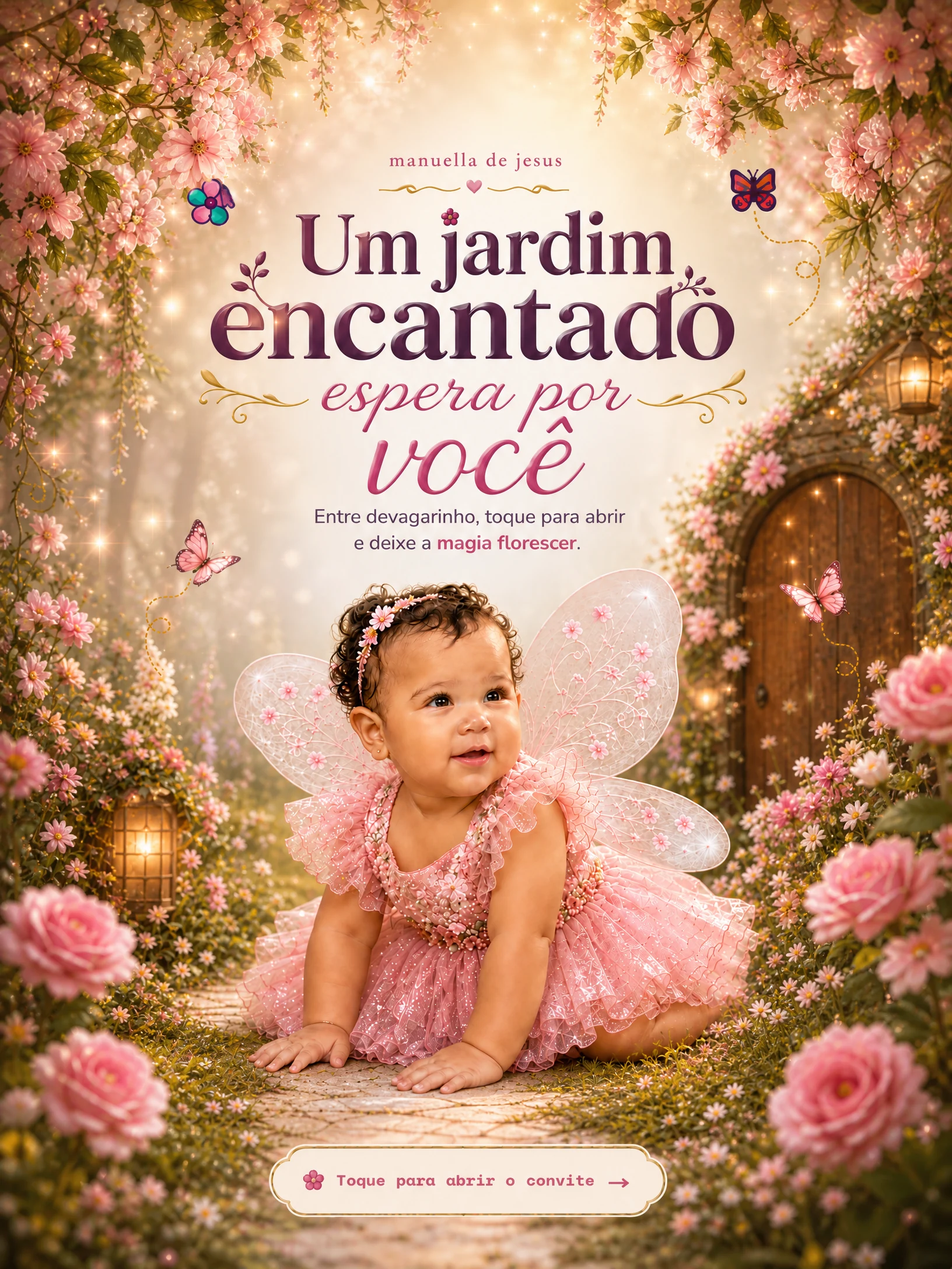
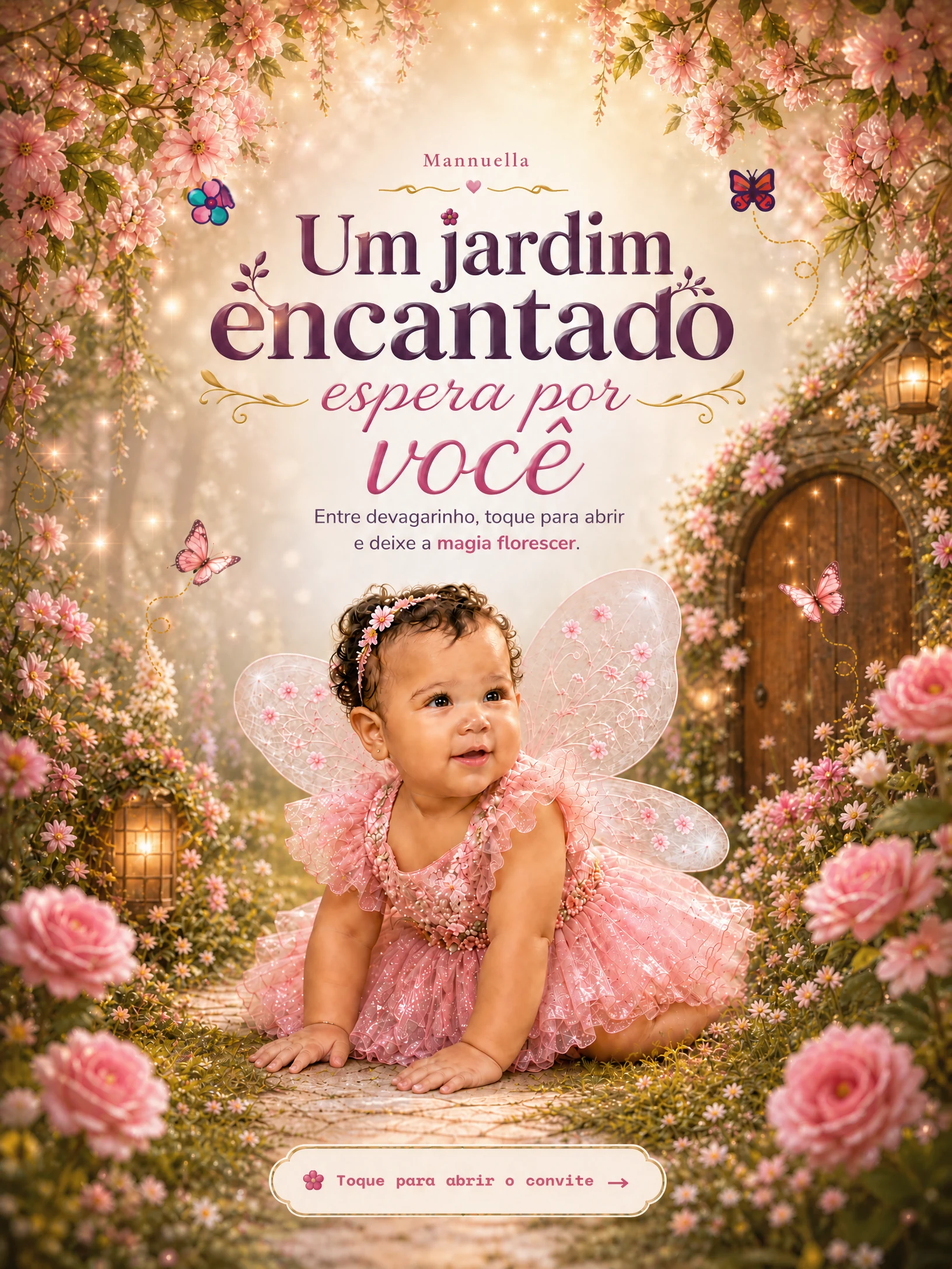
Checkpoint: Corrigi o nome incorporado na capa, removendo visualmente “de Jesus” do texto superior e mantendo apenas “Mannuella”. Também removi o sobrenome do título HTML da primeira página; a segunda página não possui mais ocorrência textual do sobrenome no conteúdo do projeto. A composição, a cria

diff --git a/client/src/pages/Home.tsx b/client/src/pages/Home.tsx
@@ -99,7 +99,7 @@ export default function Home() {
               </div>
               <div className="hero-copy"><span className="brand-seal" aria-label="1 aninho"><span className="seal-flower">✿</span><strong>1</strong><small>aninho</small></span>
                 <p className="kicker">O jardim da nossa vida floresceu</p>
-                <h1>Mannuella<br /><em>de Jesus</em></h1>
+                <h1>Mannuella</h1>
                 <p className="hero-description">Há um ano, um pequeno milagre chegou para colorir nossos dias. Entre risadas, descobertas e abraços apertados, nossa pequena Mannuella completa seu primeiro ano — e esta história fica ainda mais bonita quando você faz parte dela.</p>
               </div>
             </section>

diff --git a/todo.md b/todo.md
@@ -154,3 +154,9 @@ Validação externa: a branch main do GitHub contém Home.tsx com referências /
 
 - [x] Localizar e substituir o nome completo pelo nome “Mannuella” em todo o projeto.
 - [x] Validar textos, metadados, build e publicar.
+
+# Tarefas — Remoção do sobrenome nas artes
+
+- [x] Editar a capa para remover “de Jesus” do título e do texto superior.
+- [x] Editar a arte da segunda página para remover as ocorrências visuais do sobrenome.
+- [x] Substituir assets, validar e publicar.
